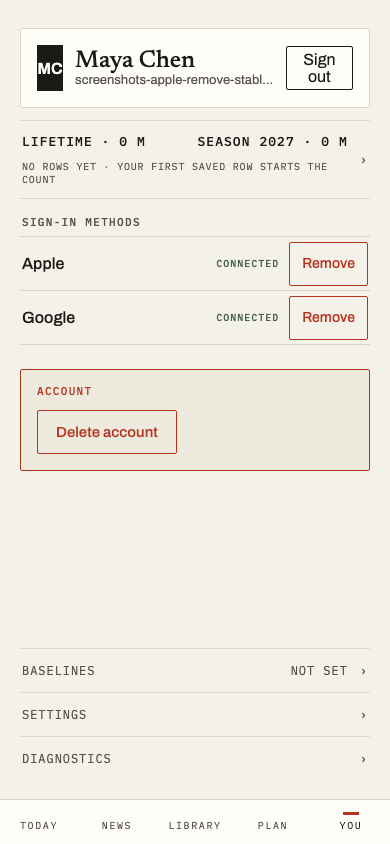
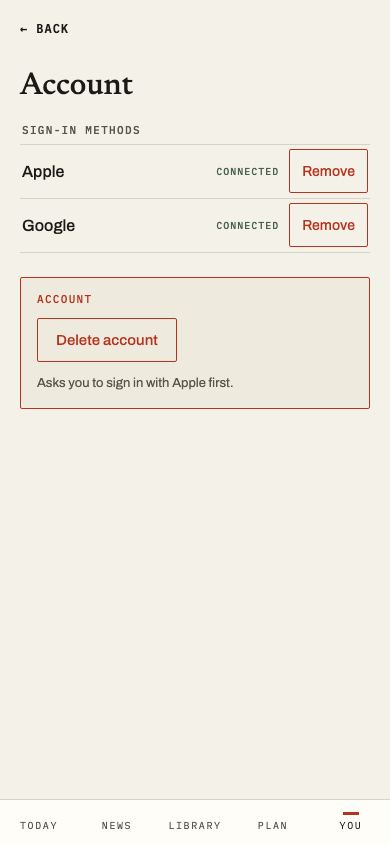
Capture the account door, and name the screen the cancel leg lands on
Five scoped captures: You after the move (ACCOUNT first, no delete button,
reachable without scrolling — which confirms the Gate 0 pack's
contentBelowFoldPx of 0 on the real screen rather than a mock), and the four
account-block shots, now taken on the subpage.

The cancelled-link leg's title said "sends the rower to You"; it asserts
/you/account and now says so.

Claude-Session: https://claude.ai/code/session_01Gxbg8WfyXTEuS8XphsFBfA

diff --git a/app/e2e/appleAuth.spec.ts b/app/e2e/appleAuth.spec.ts
@@ -421,7 +421,7 @@ test("a lost finalize response reports uncertainty without claiming failure or s
   ).toHaveAttribute("aria-current", "page");
 });
 
-test("a cancelled link return sends the rower to You once and releases ordinary navigation", async ({
+test("a cancelled link return sends the rower to the account screen once and releases ordinary navigation", async ({
   page,
 }, testInfo) => {
   await enableFrontDoor(page);
